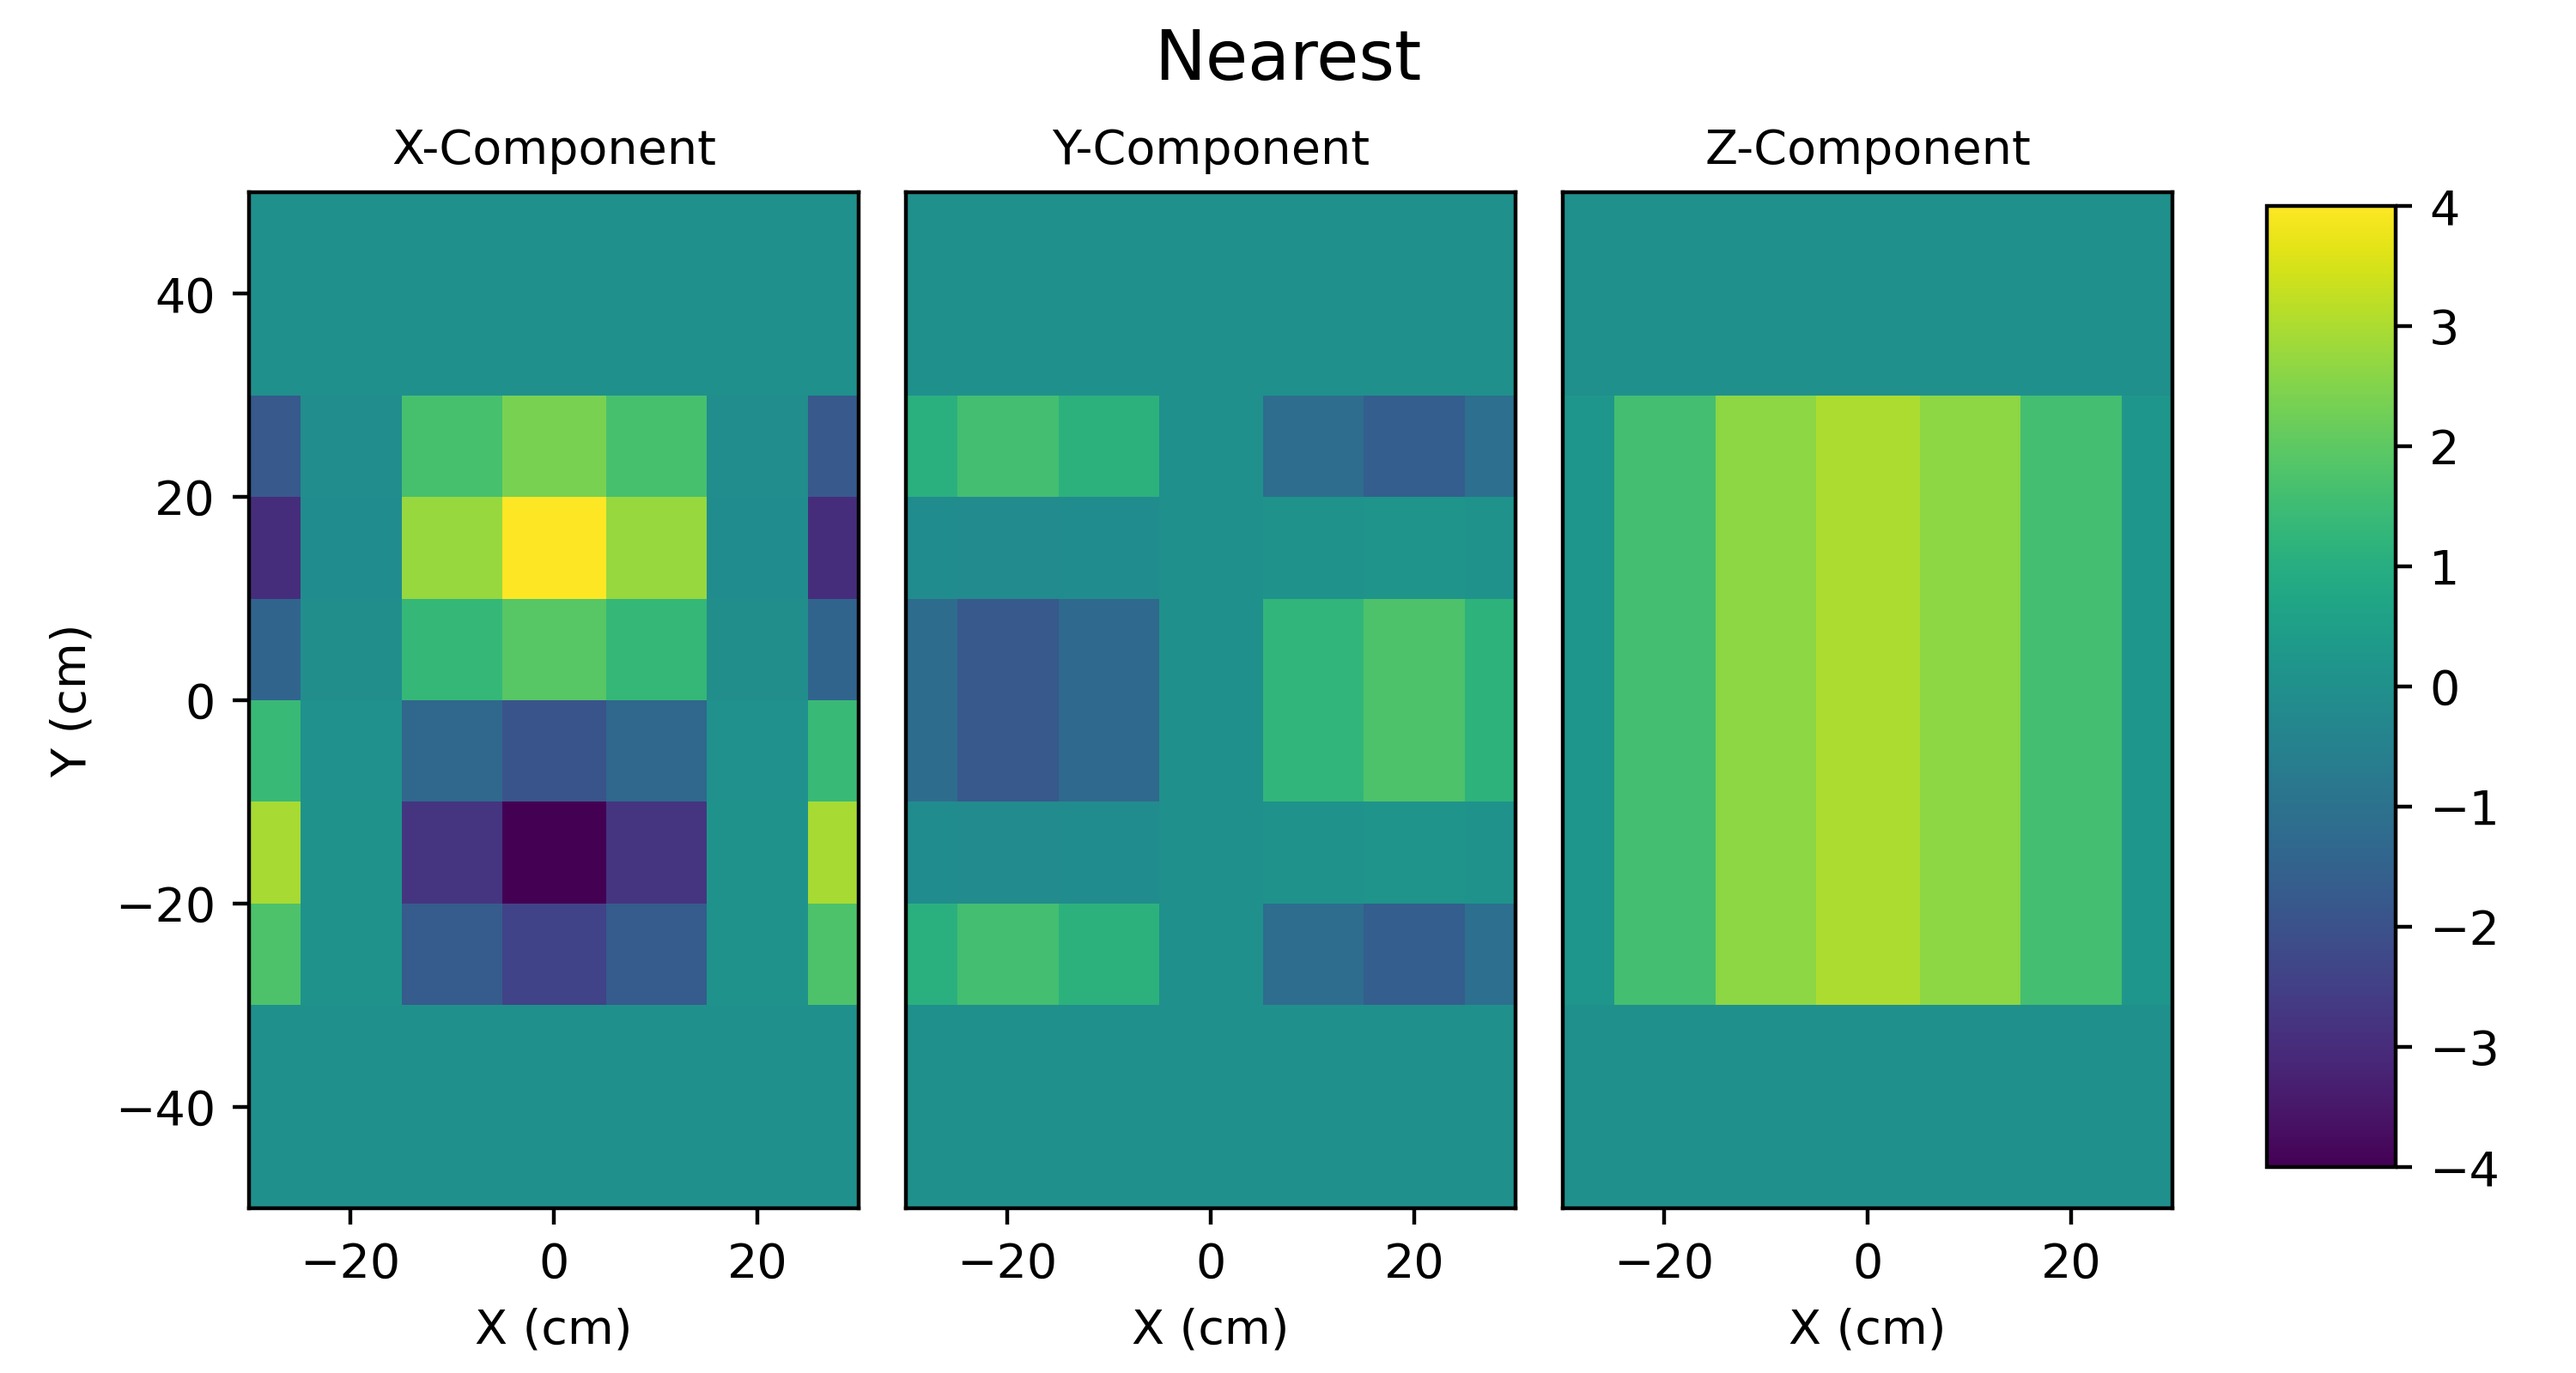
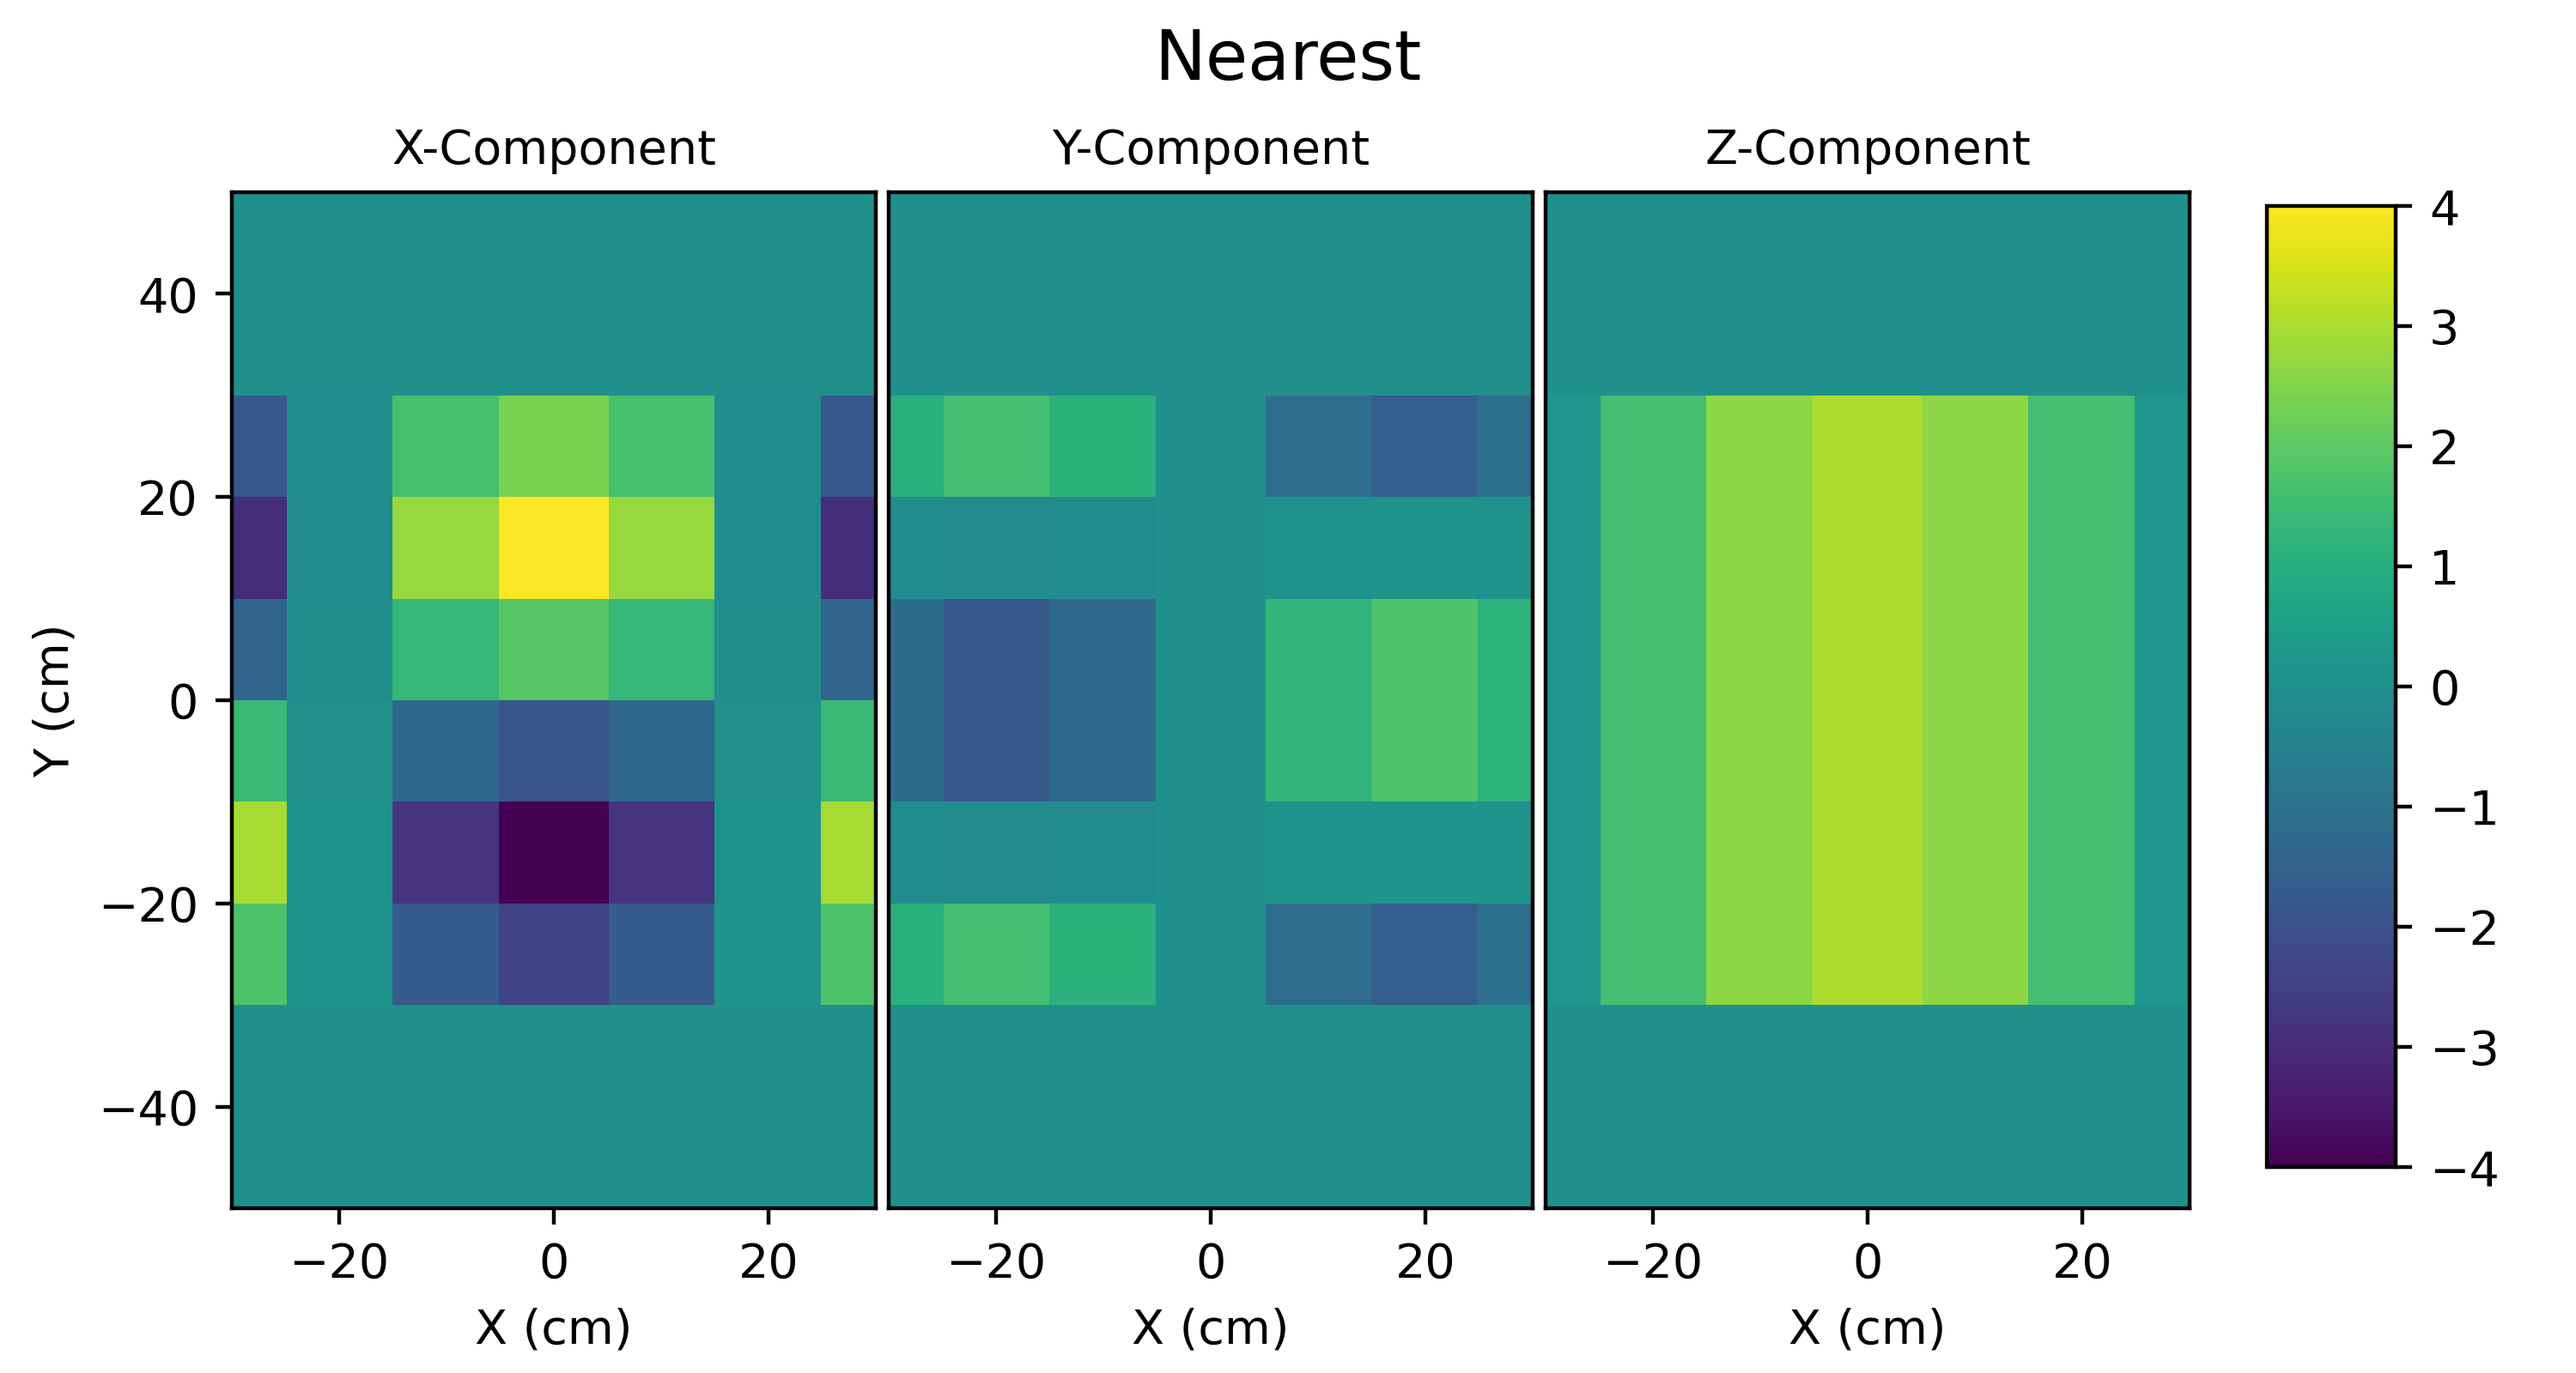
Fix manual plots.
Former-commit-id: cdf9ace7c64a7c338b5faa4c32bf7f97a8d3ec53

diff --git a/examples/features/fields/maps_bdsim/Compare2D.py b/examples/features/fields/maps_bdsim/Compare2D.py
@@ -1,17 +1,41 @@
+import matplotlib.pyplot as _plt
 import pybdsim
 
 def Compare2D(original, nearest, linear, linearmag, cubic):
     kws = {'vmin':-4, 'vmax':4}
     pybdsim.Field.Plot2DXYFxFyFz(original, 'Original', **kws)
+    # for this one we shrink the limits
+    axs = _plt.gcf().get_axes()
+    for i in range(3):
+        axs[i].set_ylim(-50,50)
+    Save(original)
+    
     pybdsim.Field.Plot2DXYFxFyFz(nearest, 'Nearest', **kws)
+    Save(nearest)
+    
     pybdsim.Field.Plot2DXYFxFyFz(linear, 'Linear', **kws)
+    Save(linear)
+    
     pybdsim.Field.Plot2DXYFxFyFz(linearmag, 'Linear Mag', **kws)
+    Save(linearmag)
+    
     pybdsim.Field.Plot2DXYFxFyFz(cubic, 'Cubic', **kws)
-    return
+    Save(cubic)
 
-if __name__ == "__main__":
+def _FN(filename):
+    fn = filename.split('.')[0]+".png"
+    print(fn)
+    return fn
+
+def Save(filename):
+    _plt.savefig(_FN(filename), dpi=400)
+
+def DoIt():
     Compare2D("2dexample.dat.gz",
               "2d_interpolated_nearest.dat",
               "2d_interpolated_linear.dat",
               "2d_interpolated_linear_mag.dat",
               "2d_interpolated_cubic.dat")
+
+if __name__ == "__main__":
+    DoIt()
